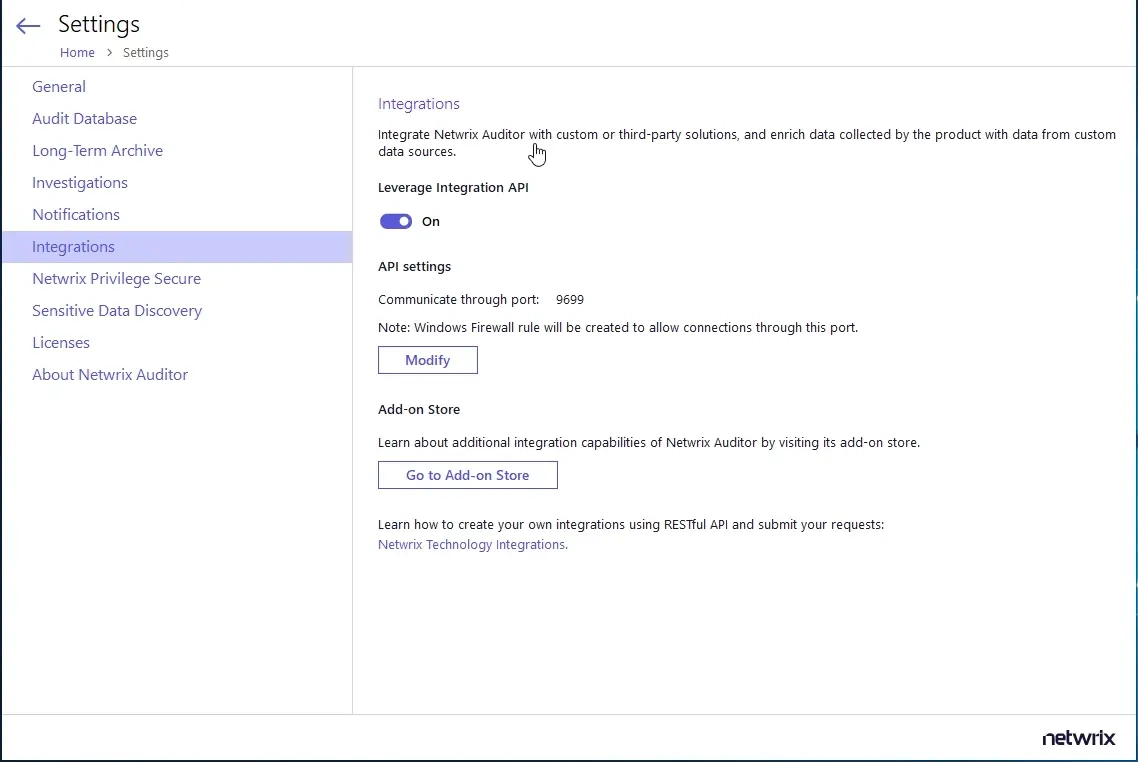
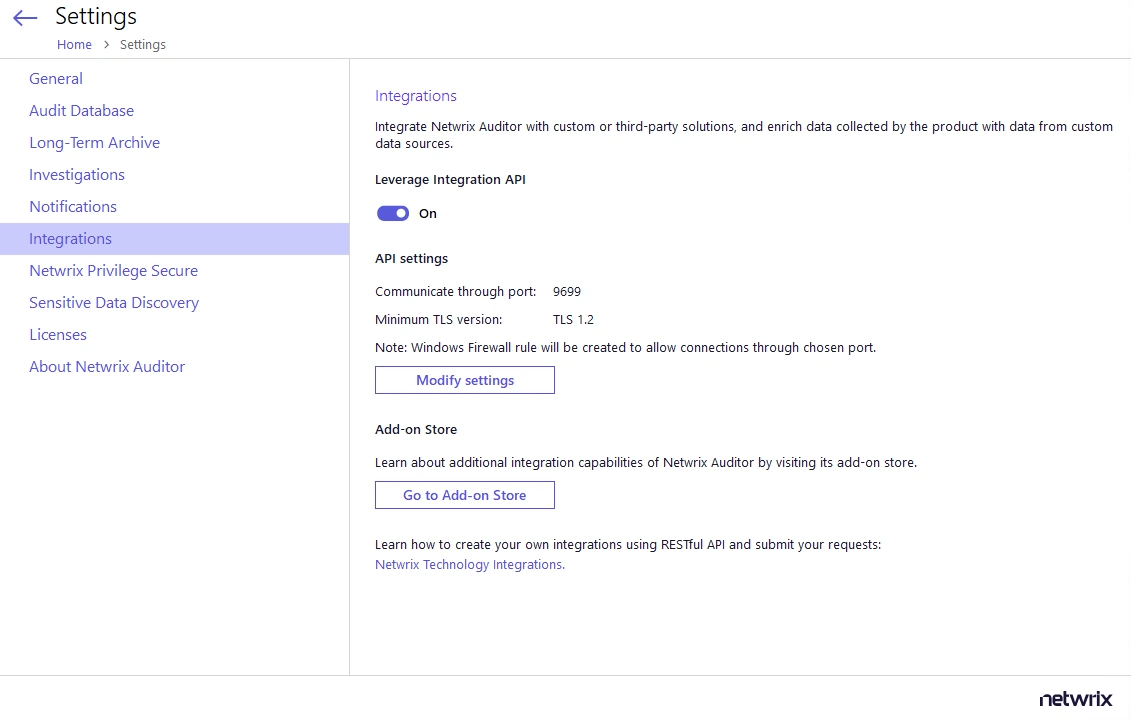
fix(auditor/10.9): editorial fixes and TLS setting for API docs
Fix style guide violations in Integration API prerequisites and security
pages (numbered steps, active voice, sentence-case headings, spelled-out
acronyms), and document the minTlsVersion setting in the APIAdminTool
command table.

diff --git a/docs/auditor/10.9/api/security.md b/docs/auditor/10.9/api/security.md
@@ -7,7 +7,7 @@ sidebar_position: 120
 # Security
 
 By default, Netwrix Auditor API uses HTTPS for sending requests to its endpoints. Netwrix encrypts
-data with a self-signed automatically generated SSL certificate and strongly recommends you to
+data with a self-signed automatically generated SSL (Secure Sockets Layer) certificate and strongly recommends that you
 replace it with a new secured certificate acquired from any reliable source.
 
 The automatically generated Netwrix API certificate is located in the Personal store. To enable
@@ -16,30 +16,31 @@ store.
 
 ![certificatestore_thumb_0_0](/images/auditor/10.7/api/certificatestore_thumb_0_0.webp)
 
-To manage API security settings with APIAdminTool.exe
+## Manage API security settings with `APIAdminTool.exe`
 
 Netwrix provides a command-line tool for managing Integration API. The tool allows switching between
 HTTP and HTTPS, assigning new certificates, etc.
 
-1. On the computer where Auditor Server resides, start the Command Prompt and run the tool. The tool
-   is located in the _Netwrix Auditor installation folder_, inside the _Audit Core_ folder. For
+1. On the computer where Auditor Server resides, start the Command Prompt.
+2. Navigate to the Netwrix Auditor installation folder, inside the Audit Core folder, and run the tool. For
    example:
 
     `C:\>cd C:\Program Files (x86)\Netwrix Auditor\Audit Core`
 
     `C:\Program Files (x86)\Netwrix Auditor\Audit Core>APIAdminTool.exe`
 
-2. Execute one of the following commands depending on your task. Review the tips for running the
+3. Execute one of the following commands depending on your task. Review the tips for running the
    tool:
 
     - Some commands require parameters. Provide parameters with values (parameter= value) if you
-      want to use non-default. E.g., `APIAdminTool.exe api http port= 4431`.
-    - Append `help `to any command to see available parameters and sub-commands. E.g.,
+      want to use non-default values. E.g., `APIAdminTool.exe api http port= 4431`.
+    - Append `help` to any command to see available parameters and sub-commands. E.g.,
       `APIAdminTool.exe api help`.
 
-| To...                        | Execute...                                                                                                                                                                                                                                                                                                                                                                                                                                                                                                                                                                                                                                                                                                                                                                                                                                                                                                                                                                                                                                                                                                                                                                                                                                                                                                                                                                                                                                                                                        |
-| ---------------------------- | ------------------------------------------------------------------------------------------------------------------------------------------------------------------------------------------------------------------------------------------------------------------------------------------------------------------------------------------------------------------------------------------------------------------------------------------------------------------------------------------------------------------------------------------------------------------------------------------------------------------------------------------------------------------------------------------------------------------------------------------------------------------------------------------------------------------------------------------------------------------------------------------------------------------------------------------------------------------------------------------------------------------------------------------------------------------------------------------------------------------------------------------------------------------------------------------------------------------------------------------------------------------------------------------------------------------------------------------------------------------------------------------------------------------------------------------------------------------------------------------------- |
-| Disable API                  | `APIAdminTool.exe api disable` This command duplicates the checkbox on the Integrations page in Netwrix Auditor.                                                                                                                                                                                                                                                                                                                                                                                                                                                                                                                                                                                                                                                                                                                                                                                                                                                                                                                                                                                                                                                                                                                                                                                                                                                                                                                                                                                  |
-| Switch to HTTP               | `APIAdminTool.exe api http` Netwrix recommends switching to HTTP only in safe intranet environments. To use a non-default port (9699), append a parameter port with value to the command above (e.g.,` port= 4431`).                                                                                                                                                                                                                                                                                                                                                                                                                                                                                                                                                                                                                                                                                                                                                                                                                                                                                                                                                                                                                                                                                                                                                                                                                                                                              |
-| Switch to HTTPS              | `APIAdminTool.exe api https` Run this command if you want to continue using Netwrix-generated certificate. To use a non-default port (9699), append a parameter port with value to the command above (e.g., `port= 4431`).                                                                                                                                                                                                                                                                                                                                                                                                                                                                                                                                                                                                                                                                                                                                                                                                                                                                                                                                                                                                                                                                                                                                                                                                                                                                        |
-| Assign a new SSL certificate | `APIAdminTool.exe api https certificate` Run this command if you want to apply a new certificate and use it instead default. You must add a certificate to the store before running this command. Provide parameters to specify a certificate: <ul><li>For a certificate exported to a file:</li><li>path—Mandatory, defines certificate location.</li><li>store—Optional, defines the store name where certificate is located. By default, Personal. For example: `APIAdminTool.exe api https certificate path= C:\SecureCertificate.cef store= Personal`</li><li>For a self-signed certificate:</li><li>subject—Mandatory, defines certificate name.</li><li>validFrom—Optional, defines a certificate start date. By default, today.</li><li>validTo—Optional, defines a certificate expiration date. By default, 5 years after a validFrom date. For example: `APIAdminTool.exe api https certificate subject= New validTo= 01/01/2024` If you want to create a new self-signed certificate for a default period of 5 years from the current date: `APIAdminTool.exe api https certificate subject= "Netwrix Integration API"`</li><li>For a certificate specified using thumbprint:</li><li>store—Optional, defines the store name where certificate is located. By default, Personal.</li><li>thumbprint—Mandatory, defines a thumbprint identifier for a certificate. For example: `APIAdminTool.exe api https certificate thumbprint= 3478cda8586675e420511dc0fdf59078093eeeda`</li></ul> |
+| To...                        | Execute...                                                                                                                                                                                                                                                                                                                                                                                                                                                                                                                                                                                                                                                                                                                                                                                                                                                                                                                                                                                                                                                                                                                                                                                                                                                                                                                                                                                                                                                                                               |
+| ---------------------------- | -------------------------------------------------------------------------------------------------------------------------------------------------------------------------------------------------------------------------------------------------------------------------------------------------------------------------------------------------------------------------------------------------------------------------------------------------------------------------------------------------------------------------------------------------------------------------------------------------------------------------------------------------------------------------------------------------------------------------------------------------------------------------------------------------------------------------------------------------------------------------------------------------------------------------------------------------------------------------------------------------------------------------------------------------------------------------------------------------------------------------------------------------------------------------------------------------------------------------------------------------------------------------------------------------------------------------------------------------------------------------------------------------------------------------------------------------------------------------------------------------------- |
+| Disable API                  | `APIAdminTool.exe api disable` This command duplicates the checkbox on the Integrations page in Netwrix Auditor.                                                                                                                                                                                                                                                                                                                                                                                                                                                                                                                                                                                                                                                                                                                                                                                                                                                                                                                                                                                                                                                                                                                                                                                                                                                                                                                                                                                         |
+| Switch to HTTP               | `APIAdminTool.exe api http` Netwrix recommends switching to HTTP only in safe intranet environments. To use a non-default port (9699), append a parameter port with value to the command above (e.g.,` port= 4431`).                                                                                                                                                                                                                                                                                                                                                                                                                                                                                                                                                                                                                                                                                                                                                                                                                                                                                                                                                                                                                                                                                                                                                                                                                                                                                     |
+| Switch to HTTPS              | `APIAdminTool.exe api https` Run this command if you want to continue using Netwrix-generated certificate. To use a non-default port (9699), append a parameter port with value to the command above (e.g., `port= 4431`).                                                                                                                                                                                                                                                                                                                                                                                                                                                                                                                                                                                                                                                                                                                                                                                                                                                                                                                                                                                                                                                                                                                                                                                                                                                                               |
+| Assign a new SSL certificate | `APIAdminTool.exe api https certificate` Run this command if you want to apply a new certificate and use it instead of the default. You must add a certificate to the store before running this command. Provide parameters to specify a certificate: <ul><li>For a certificate exported to a file:</li><li>path—Mandatory, defines certificate location.</li><li>store—Optional, defines the store name where certificate is located. By default, Personal. For example: `APIAdminTool.exe api https certificate path= C:\SecureCertificate.cef store= Personal`</li><li>For a self-signed certificate:</li><li>subject—Mandatory, defines certificate name.</li><li>validFrom—Optional, defines a certificate start date. By default, today.</li><li>validTo—Optional, defines a certificate expiration date. By default, 5 years after a validFrom date. For example: `APIAdminTool.exe api https certificate subject= New validTo= 01/01/2024` If you want to create a new self-signed certificate for a default period of 5 years from the current date: `APIAdminTool.exe api https certificate subject= "Netwrix Integration API"`</li><li>For a certificate specified using thumbprint:</li><li>store—Optional, defines the store name where certificate is located. By default, Personal.</li><li>thumbprint—Mandatory, defines a thumbprint identifier for a certificate. For example: `APIAdminTool.exe api https certificate thumbprint= 3478cda8586675e420511dc0fdf59078093eeeda`</li></ul> |
+| Set the minimum TLS version  | `APIAdminTool.exe api https minTlsVersion` This command allows you to set the minimum version of TLS (Transport Layer Security) used when connecting (e.g., `minTlsVersion= 1.2`)                                                                                                                                                                                                                                                                                                                                                                                                                                                                                                                                                                                                                                                                                                                                                                                                                                                                                                                                                                                                                                                                                                                                                                                                                                                                                                                        |

diff --git a/docs/auditor/10.9/api/prerequisites.md b/docs/auditor/10.9/api/prerequisites.md
@@ -6,38 +6,35 @@ sidebar_position: 10
 
 # Prerequisites
 
-Netwrix Auditor Integration API uses HTTPS for communication with the automatically generated
+Netwrix Auditor Integration API uses HTTPS (Hypertext Transfer Protocol Secure) for communication with the automatically generated
 certificate. The default communication port is 9699.
 
 Refer to the [Security](/docs/auditor/10.9/api/security.md) topic for detailed instructions on how to disable HTTPS and
 manage other API settings.
 
-## Configure Integration API Settings
+## Configure Integration API settings
 
-Follow the steps to change the port.
+On this page, you can view the current port settings and restrictions on the TLS (Transport Layer Security) version used when using an encrypted connection.
 
-**Step 1 –** In the Netwrix Auditor main window, navigate to the Integration tile.
-
-**Step 2 –** Make sure the Leverage Integration API option is enabled.
-
-**Step 3 –** Click Modify under the API settings section and specify a port number. Windows firewall
-rule will be automatically created.
-
-**Step 4 –** If you use a third-party firewall, you must create a rule for inbound connections
-manually.
+1. In the Netwrix Auditor main window, navigate to the **Integration** tile.
+2. Make sure the **Leverage Integration API** option is enabled.
+3. Click **Modify settings** under the API settings section.
+4. Specify a port number. The product automatically creates a Windows firewall rule.
+5. Select the minimum TLS version from the list.
+6. If you use a third-party firewall, create a rule for inbound connections manually.
 
 ![Integration API Settings](/images/auditor/10.9/addon/connectwise/integrations_thumb_0_0.webp)
 
-## Configure Audit Database Settings
+## Configure Audit Database settings
 
 When you first configure the Audit Database settings in Netwrix Auditor, the product also creates
-several databases for special purposes, including Netwrix_Auditor_API. This database is designed to
+several databases for special purposes, including `Netwrix_Auditor_API`. This database is designed to
 store data imported from the other sources using Netwrix Auditor Integration API.
 
 Make sure that the Audit Database settings are configured in Netwrix Auditor. To check or configure
-these settings, navigate to the **Settings > Audit Database**.
+these settings, navigate to **Settings** > **Audit Database**.
 
-You cannot use Netwrix Auditor Integration API without configuring the Audit Database.
+Netwrix Auditor Integration API requires a configured Audit Database.
 
 Refer to the [Audit Database](/docs/auditor/10.9/admin/settings/auditdatabase.md) topic for detailed instructions on
 how to configure SQL Server settings.
